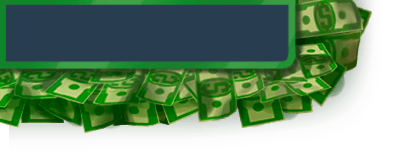
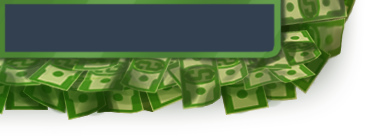
+

diff --git a/src/System/ResourceLoader.cpp b/src/System/ResourceLoader.cpp
@@ -32,10 +32,19 @@ namespace ResourceLoader {
     }
 
     void loadTexturesFromFiles() {
-        //----<<Ui>>-----
+        //----<<Ui>>----
         ResourceLoader::loadTexture(Entities::E_Indicator_Money, "resources/ui/indicator.money.png");
 
+        ResourceLoader::loadTexture(Entities::E_ButtonAddClerk, "resources/ui/button.add.clerk.png", S_Button_Normal);
+        ResourceLoader::loadTexture(Entities::E_ButtonAddClerk, "resources/ui/button.add.clerk.pressed.png", S_Button_Pressed);
 
+        ResourceLoader::loadTexture(Entities::E_ButtonAddOffice, "resources/ui/button.add.office.png", S_Button_Normal);
+        ResourceLoader::loadTexture(Entities::E_ButtonAddOffice, "resources/ui/button.add.office.pressed.png", S_Button_Pressed);
+
+        ResourceLoader::loadTexture(Entities::E_ButtonAddElevatorShaftMiddle, "resources/control.panel/button.add.elevator.png");
+        ResourceLoader::loadTexture(Entities::E_ButtonAddElevatorShaftTop, "resources/control.panel/button.add.elevator.png");
+
+        //----<<Office>>----
         ResourceLoader::loadTexture(Entities::E_OfficeDefault, "resources/office/office.default.png");
         ResourceLoader::loadTexture(Entities::E_Chair, "resources/office/chair.png");
 
@@ -51,13 +60,9 @@ namespace ResourceLoader {
 
         ResourceLoader::loadTexture(Entities::E_StaticGround, "resources/ground.png");
 
-        ResourceLoader::loadTexture(Entities::E_ButtonAddClerk, "resources/ui/button.add.clerk.png", S_Button_Normal);
-        ResourceLoader::loadTexture(Entities::E_ButtonAddClerk, "resources/ui/button.add.clerk.pressed.png", S_Button_Pressed);
 
-        ResourceLoader::loadTexture(Entities::E_ButtonAddOffice, "resources/ui/button.add.office.png");
 
-        ResourceLoader::loadTexture(Entities::E_ButtonAddElevatorShaftMiddle, "resources/control.panel/button.add.elevator.png");
-        ResourceLoader::loadTexture(Entities::E_ButtonAddElevatorShaftTop, "resources/control.panel/button.add.elevator.png");
+
 
 
 

diff --git a/src/Ui/ControlButtonAddOffice.cpp b/src/Ui/ControlButtonAddOffice.cpp
@@ -12,13 +12,16 @@ ControlButtonAddOffice::ControlButtonAddOffice() {
     setWidth(ControlButtonAddOffice::width);
     setHeight(ControlButtonAddOffice::height);
 
-    addAnimation(S_None, Animation(this, S_None, 1, ResourceLoader::getTexture(E_ButtonAddOffice)));
-    initEntity();
+    addAnimation(S_Button_Normal, Animation(this, S_Button_Normal, 1, ResourceLoader::getTexture(E_ButtonAddOffice, S_Button_Normal)));
+    addAnimation(S_Button_Pressed, Animation(this, S_Button_Pressed, 1, ResourceLoader::getTexture(E_ButtonAddOffice, S_Button_Pressed)));
 
+    initEntity();
     EntityContainer::add(this);
 }
 
-void ControlButtonAddOffice::updateLogic() {
+void ControlButtonAddOffice::update() {
+    selectAnimation(S_Button_Normal);
+
     bool spawnCondition = attachedOffice &&
                           System::cash >= attachedOffice->getCost() &&
                           !attachedOffice->isBelowGround() &&
@@ -49,6 +52,7 @@ void ControlButtonAddOffice::updateLogic() {
     if (attachedOffice) {
         System::spawningUnit = true;
         auto global = System::getGlobalMouse();
+        selectAnimation(S_Button_Pressed);
 
         float normalizedX = global.x - ((int) global.x % System::gridSize) + System::gridSize;
         float normalizedY = global.y - ((int) global.y % System::gridSize) + System::gridSize / 2;
@@ -77,5 +81,12 @@ void ControlButtonAddOffice::updateLogic() {
         } else {
             attachedOffice->setTransparent();
         }
+    }
+
+    worldCoordinates.x = ViewHandler::left + width / 2 + 6;
+    worldCoordinates.y = ViewHandler::top - 462;
+
+    if (currentAnimation) {
+        currentAnimation->update();
     }
 }

diff --git a/src/Ui/MoneyIndicator.cpp b/src/Ui/MoneyIndicator.cpp
@@ -24,6 +24,8 @@ MoneyIndicator::MoneyIndicator(sf::Vector2f coordinates) {
 }
 
 void MoneyIndicator::update() {
+    selectAnimation(state);
+
     worldCoordinates.x = ViewHandler::left + width / 2;
     worldCoordinates.y = ViewHandler::top - height / 2;
 
@@ -34,4 +36,6 @@ void MoneyIndicator::update() {
     moneyString.setPosition(System::cToGl(ViewHandler::left + 20, ViewHandler::top - 8));
     moneyString.setString("$ " + System::f_to_string(System::cash));
     System::window->draw(moneyString);
+
+    recalculateBoundaries();
 }

diff --git a/src/Ui/ControlButtonAddOffice.h b/src/Ui/ControlButtonAddOffice.h
@@ -3,6 +3,7 @@
 
 #include <Basic/Entity.h>
 #include "Office/Office.h"
+#include <System/ViewHandler.h>
 
 class ControlButtonAddOffice : public Entity {
 public:
@@ -13,6 +14,6 @@ public:
 
     explicit ControlButtonAddOffice();
 
-    void updateLogic() override;
+    void update() override;
 };
 #endif //THE_CORP_GAME_CONTROLBUTTONADDOFFICE_H

diff --git a/src/Basic/Entity.cpp b/src/Basic/Entity.cpp
@@ -11,6 +11,8 @@ std::string Entity::serialize() {
 }
 
 void Entity::update() {
+    selectAnimation(state);
+
     if (currentAnimation) {
         currentAnimation->update();
     }
@@ -67,7 +69,6 @@ void Entity::setInvalid() {
 }
 
 void Entity::updateLogic() {
-    selectAnimation(state);
     recalculateBoundaries();
 }
 

diff --git a/src/Ui/MoneyIndicator.h b/src/Ui/MoneyIndicator.h
@@ -5,8 +5,8 @@
 
 class MoneyIndicator : public Entity {
 
-    const static int width = 394;
-    const static int height = 156;
+    const static int width = 378;
+    const static int height = 136;
 
     sf::Text moneyString;
 public:
